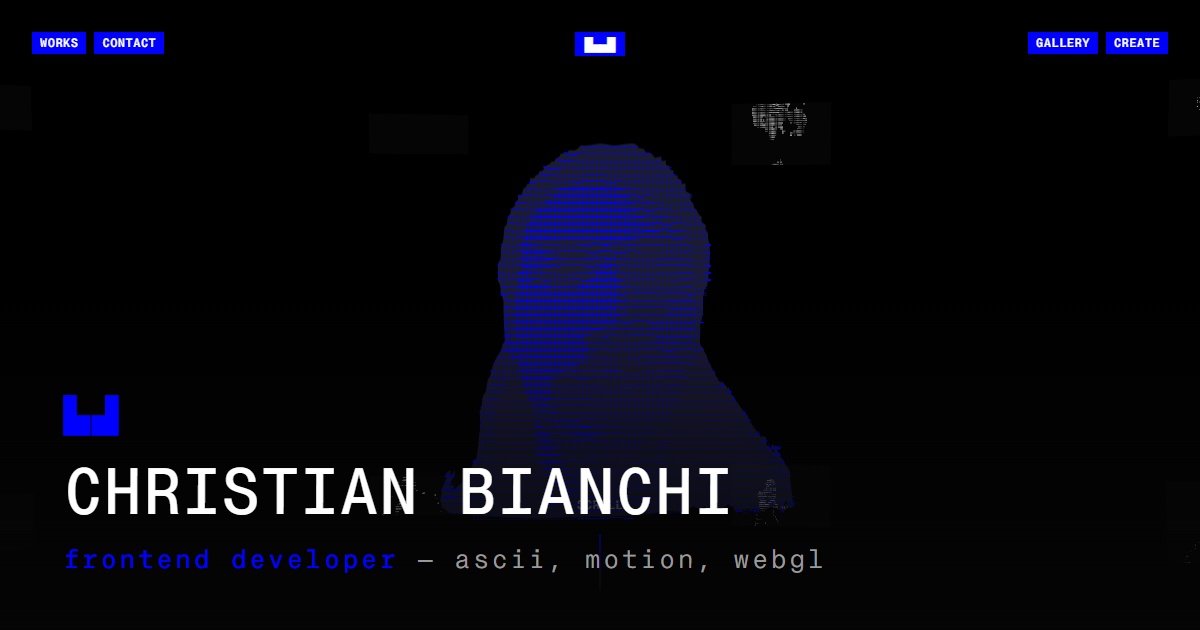
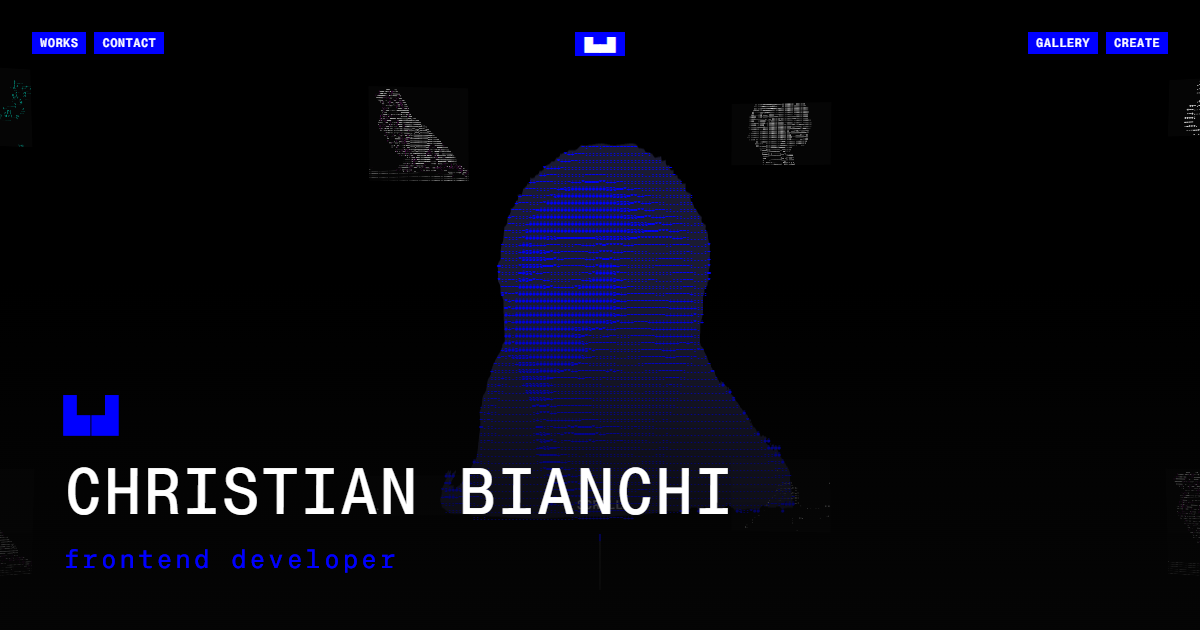
head metadata: drop the ascii/motion/webgl tagline, keep it to name and role

diff --git a/index.html b/index.html
@@ -6,7 +6,7 @@
     <title>Christian Bianchi — Frontend Developer</title>
     <meta
       name="description"
-      content="Frontend developer building ascii-driven interfaces, motion and WebGL experiments. Includes a live ascii media converter and a community gallery."
+      content="Christian Bianchi, frontend developer. Includes a live ascii media converter and a community gallery."
     />
     <link rel="icon" type="image/svg+xml" href="/favicon.svg" />
     <meta name="theme-color" content="#050505" />
@@ -18,7 +18,7 @@
     <meta property="og:title" content="Christian Bianchi — Frontend Developer" />
     <meta
       property="og:description"
-      content="Ascii-driven interfaces, motion and WebGL experiments — with a live ascii media converter and community gallery."
+      content="Christian Bianchi, frontend developer — with a live ascii media converter and community gallery."
     />
     <meta property="og:url" content="https://portfolio-a5n.pages.dev/" />
     <meta property="og:image" content="https://portfolio-a5n.pages.dev/og.png" />
